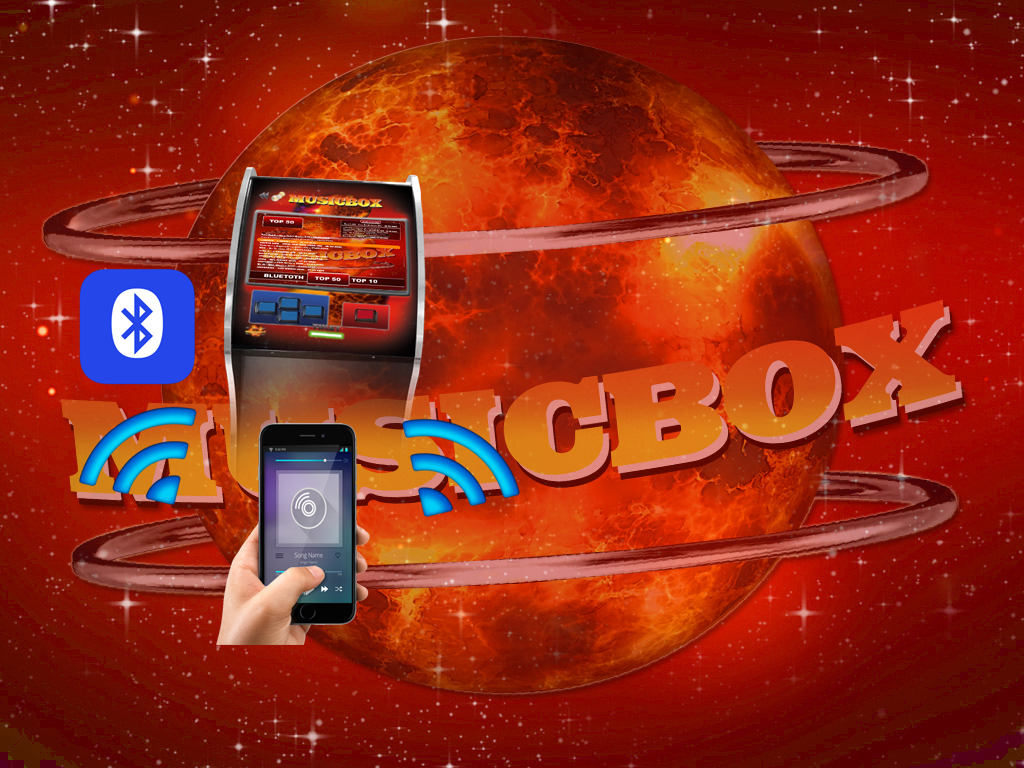
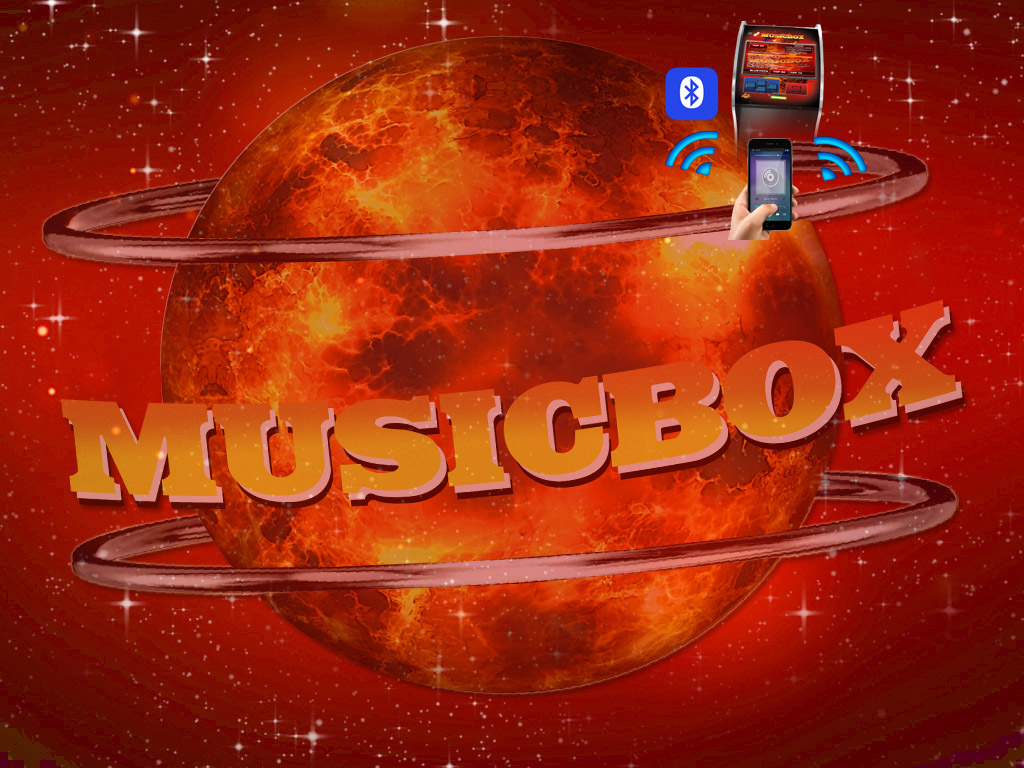
update bacgrounds, add first version of temporary language changer

diff --git a/blue-app/ui/ApplicationWindow.py b/blue-app/ui/ApplicationWindow.py
@@ -31,6 +31,9 @@ from ui import WithdrawAskWindow
 from ui import WithdrawInfoWindow
 from ui import DamagedDeviceWindow
 from ui import TestHwWindow
+
+from ui import TempLanguageChanger
+
 from ui.ApplicationWindowHelpers import NotStartSameImmediatellyCheck, AppWindowArrowHandler
 
 class ApplicationWindow(QtWidgets.QMainWindow):
@@ -219,6 +222,8 @@ class ApplicationWindow(QtWidgets.QMainWindow):
         self.arrowHandler = arrowHandler
         self.ui.errorLabel.setVisible(False)
 
+        self.tempLanguageChanger = TempLanguageChanger.TempLanguageChanger(self, self.ui.leftLanguageLabel, self.ui.rightLanguageLabel)
+
     def showError(self, error):
         self.ui.errorLabel.setText(error)
         self.ui.errorLabel.setVisible(True)
@@ -261,7 +266,6 @@ class ApplicationWindow(QtWidgets.QMainWindow):
 
     def onBluetoothGenre(self):
         self.ui.stackedWidget.setCurrentIndex(1)
-        self.setStyleSheet("QMainWindow { background-image: url(':/images/bg2.jpg') }");
         self.getActualFocusHandler().setFocus()
         self.updateCreditLabel()
         self.cleanScannedData()
@@ -269,7 +273,6 @@ class ApplicationWindow(QtWidgets.QMainWindow):
     def onBackFromBlueButton(self):
         self.getActualFocusHandler().onLeft()
         self.ui.stackedWidget.setCurrentIndex(0)
-        self.setStyleSheet("QMainWindow { background-image: url(':/images/bg.jpg') }");
         self.getActualFocusHandler().setFocus()
         self.updateCreditLabel()
 
@@ -309,6 +312,8 @@ class ApplicationWindow(QtWidgets.QMainWindow):
         self.updateCreditLabel()
         self.langBasedSettings.reloadLanguage()
         self.onFortuneDataChanged()
+
+        self.tempLanguageChanger.reloadWidgets(AppSettings.getCurrentLanguageIndex())
         if x == 1:
             self.musicController.selectModel()
 

diff --git a/blue-app/ui/TempLanguageChanger.py b/blue-app/ui/TempLanguageChanger.py
@@ -1,0 +1,46 @@
+from PyQt5 import QtWidgets
+from PyQt5 import QtGui
+from PyQt5 import QtCore
+
+from generated.Settings import Ui_Settings
+from services.AppSettings import AppSettings
+
+def getLanguagePixmap(languageString):
+    if languageString == "english":
+        return QtGui.QMovie(":/images/england.gif")
+    if languageString == "hungarian":
+        return QtGui.QMovie(":/images/hungary.gif")
+    if languageString == "slovak":
+        return QtGui.QMovie(":/images/slovak.gif")
+    if languageString == "polish":
+        return QtGui.QMovie(":/images/poland.gif")
+
+class TempLanguageChanger(QtCore.QObject):
+    def __init__(self, parent, leftLabel, rightLabel):
+        super().__init__(parent)
+        self.leftLabel = leftLabel
+        self.rightLabel = rightLabel
+        self.reloadWidgets(AppSettings.getCurrentLanguageIndex())
+
+    def getNextLanguage(self, index):
+        langList = AppSettings.LanguageList
+        if index == (len(langList) -1):
+            return langList[0]
+        return langList[index+1]
+
+    def getPreviousLanguage(self, index):
+        langList = AppSettings.LanguageList
+        if index == 0:
+            return langList[len(langList) -1]
+        return langList[index-1]
+
+    def reloadWidgets(self, leftIndex):
+        leftMovie = getLanguagePixmap(AppSettings.LanguageList[leftIndex])
+        self.leftLabel.setMovie(leftMovie)
+        leftMovie.setScaledSize(self.leftLabel.size());
+        leftMovie.start()
+
+        rightMovie = getLanguagePixmap(self.getNextLanguage(leftIndex))
+        self.rightLabel.setMovie(rightMovie)
+        rightMovie.setScaledSize(self.rightLabel.size());
+        rightMovie.start()

diff --git a/blue-app/services/mocks/BluetoothAgent.py b/blue-app/services/mocks/BluetoothAgent.py
@@ -18,7 +18,7 @@ class PairRequest(QtCore.QObject):
         pass
 
     def end(self):
-        self.connected.emit(0)
+        self.connected.emit(1)
 
     def disconnect(self):
         pass
